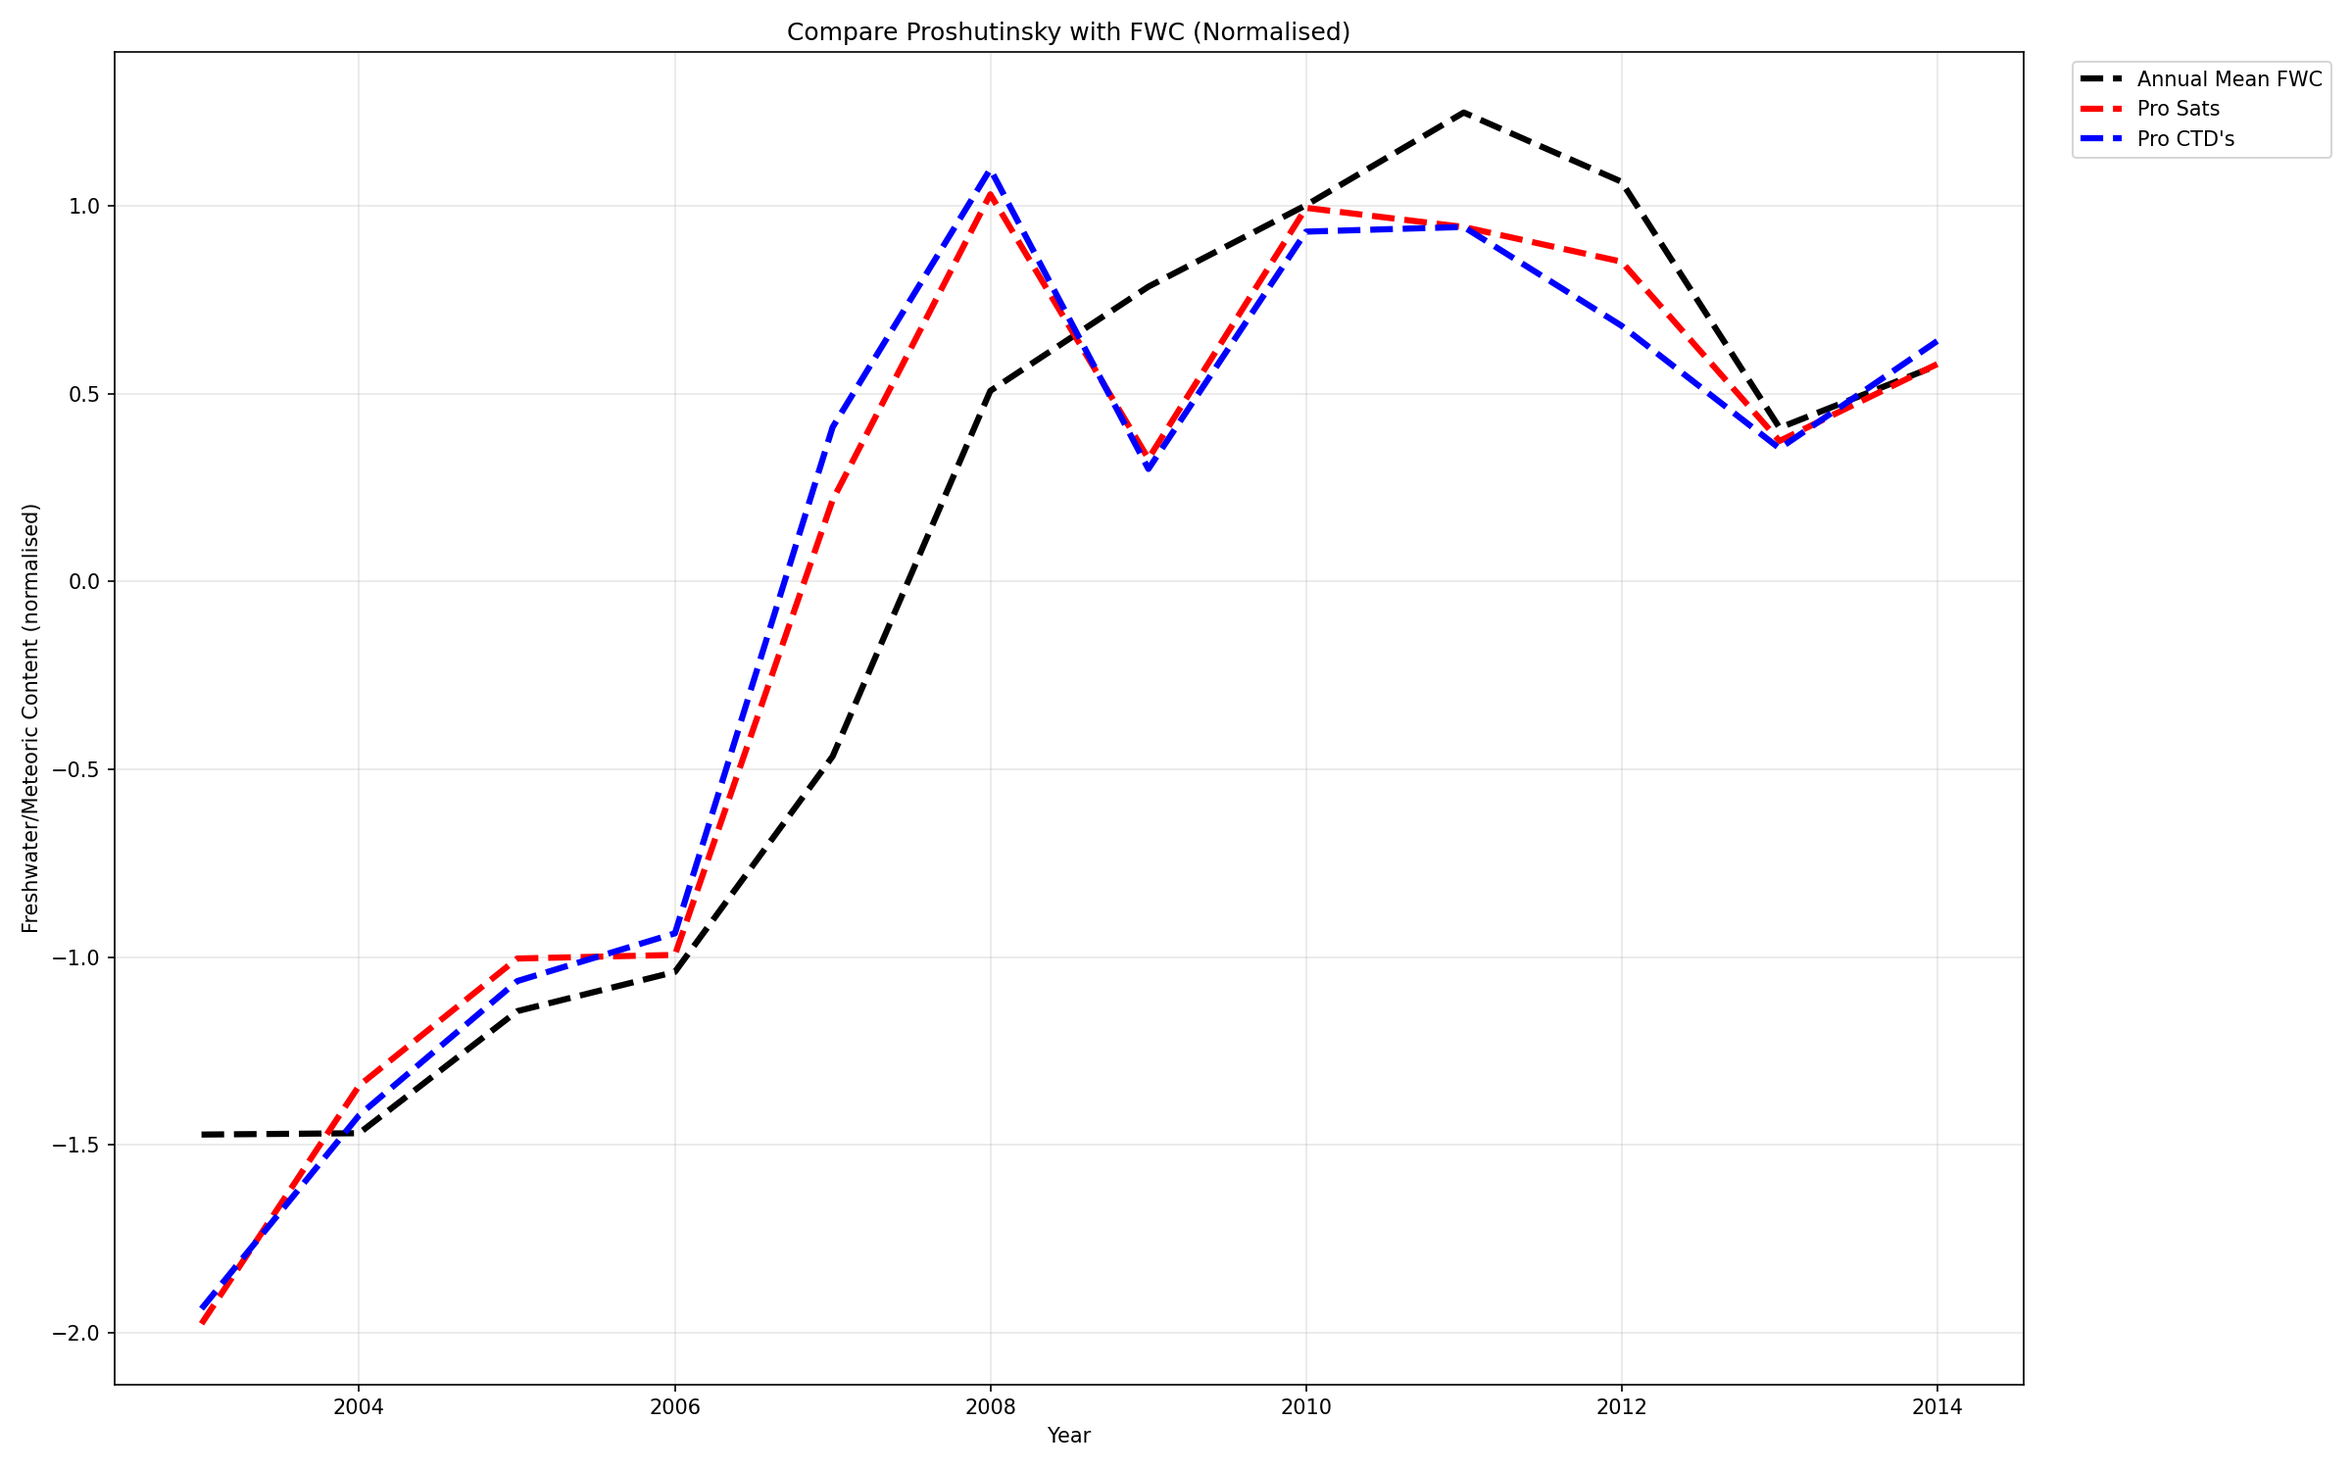
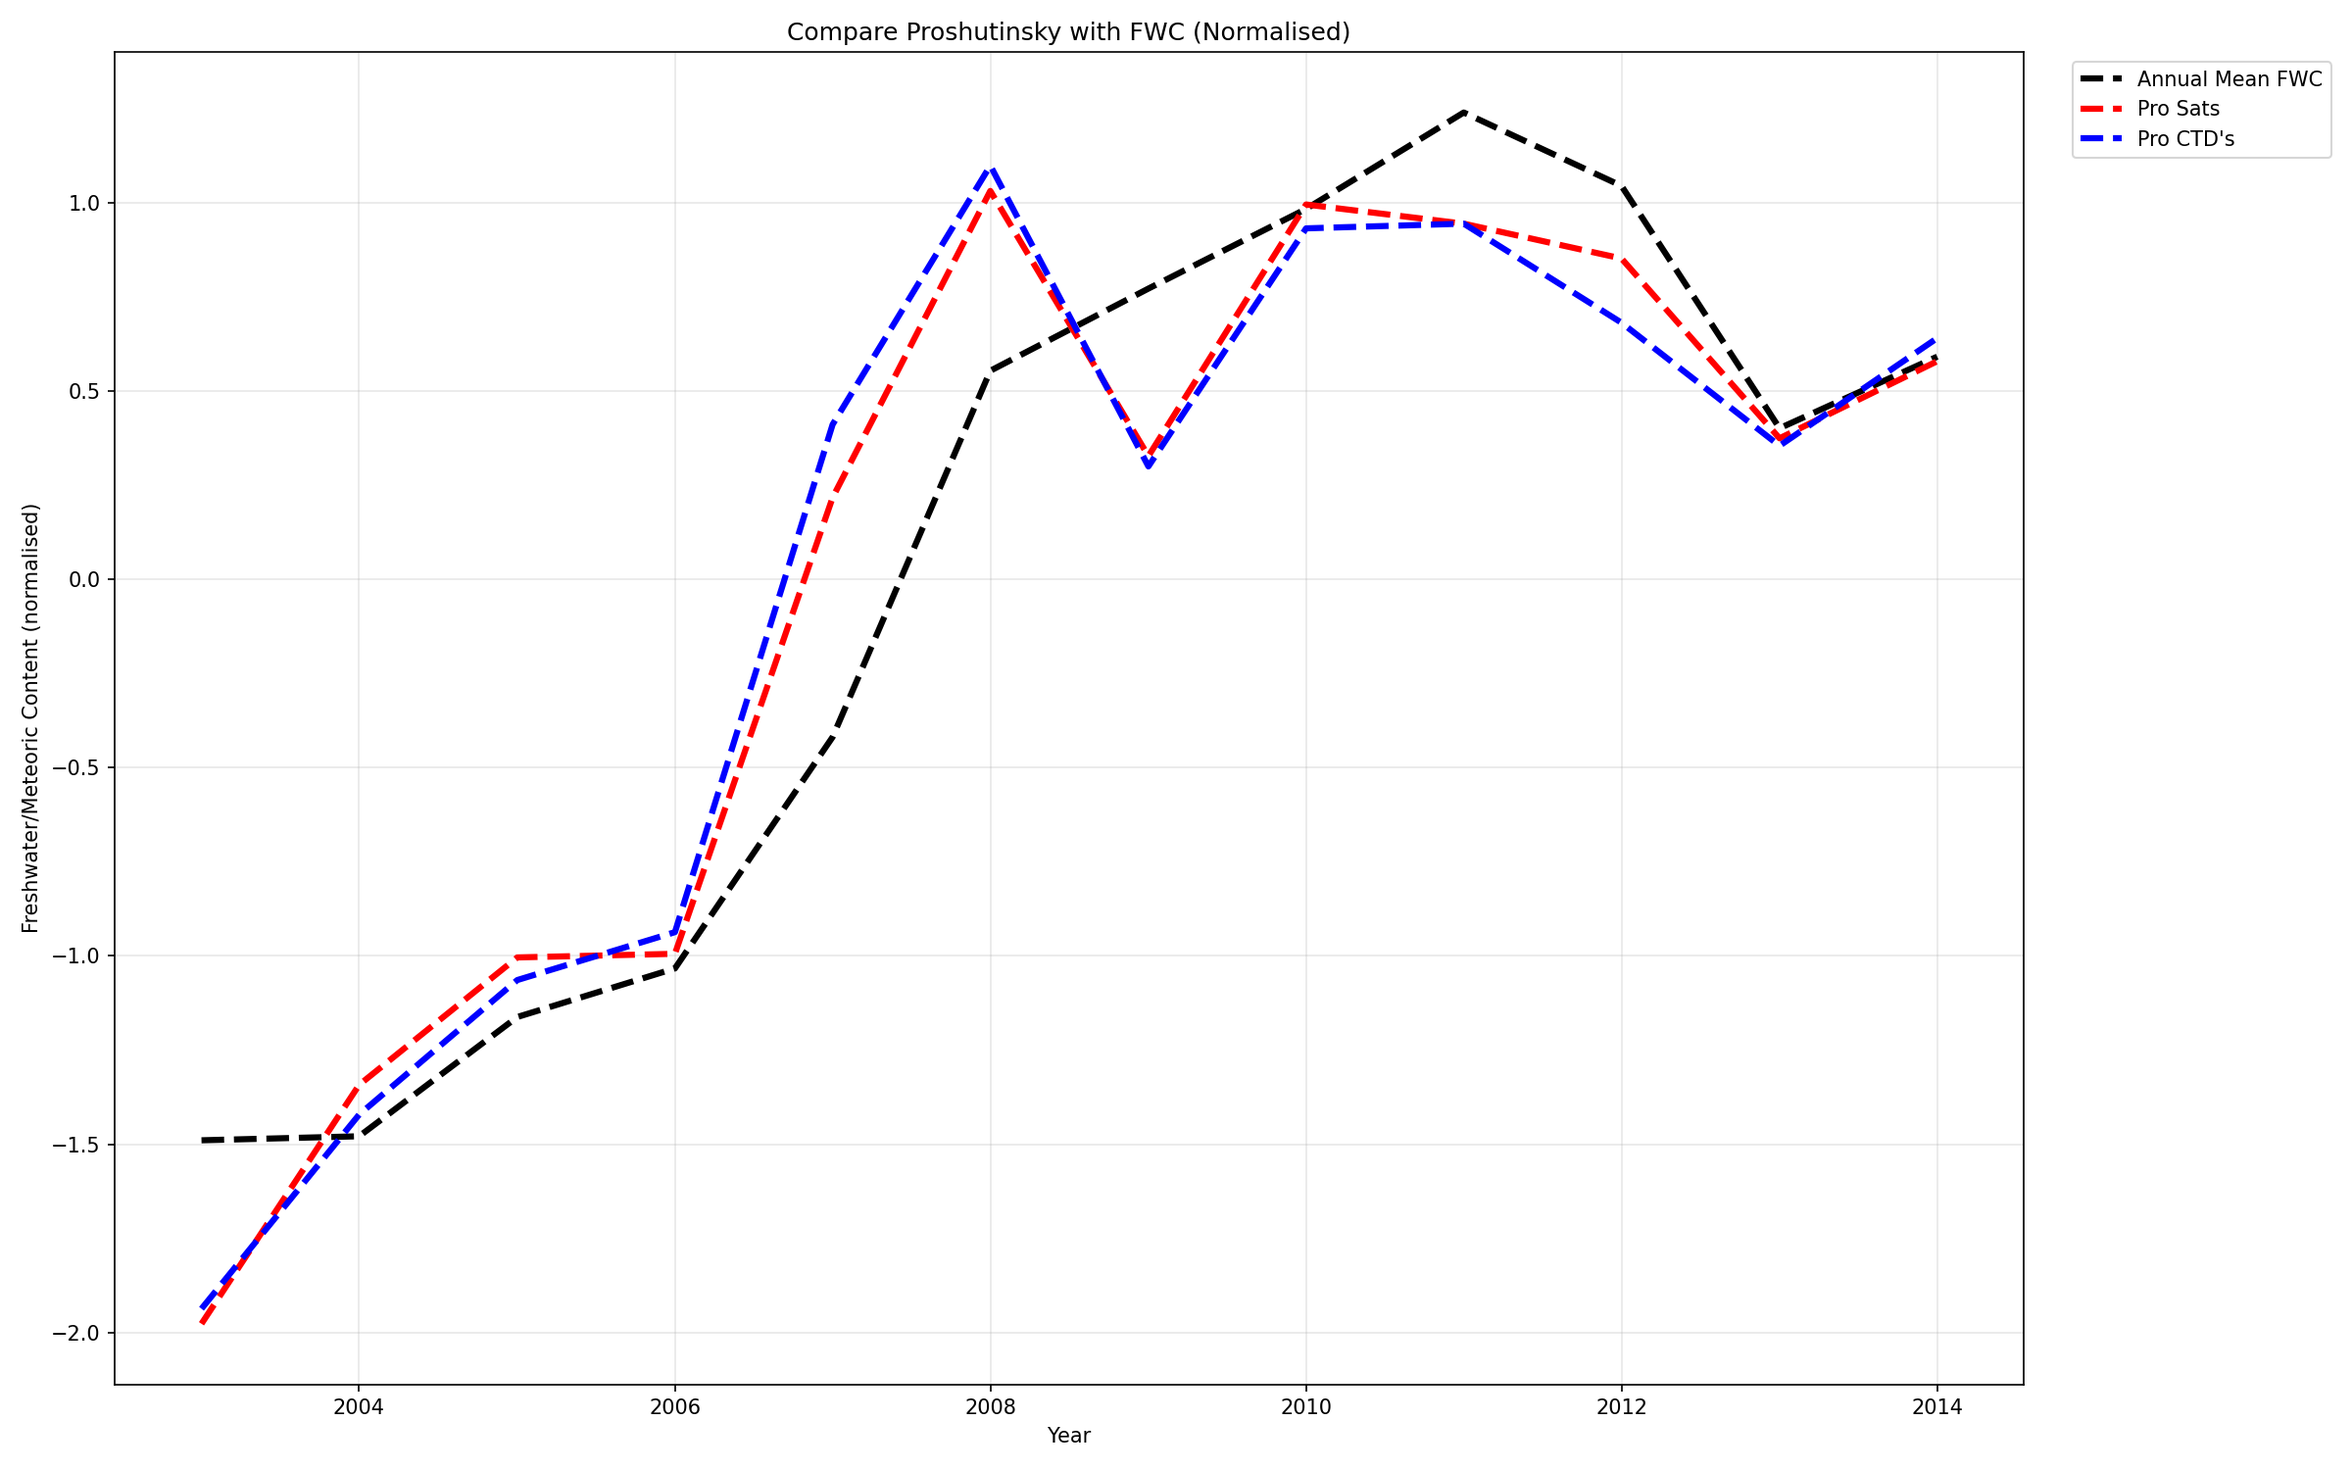
added <300 water column filter to match proshutinsky 2019 better

diff --git a/PINN2/mwc.py b/PINN2/mwc.py
@@ -1,22 +1,22 @@
-import numpy as np
-import xarray as xr
 import cartopy.crs as ccrs
 import cartopy.feature as cfeature
 import matplotlib
-matplotlib.use("Agg")
-import matplotlib.pyplot as plt
-import cmocean
-import pandas as pd
+import numpy as np
+import xarray as xr
 
+matplotlib.use("Agg")
+import cmocean
+import matplotlib.pyplot as plt
+import pandas as pd
 
 start_year = 1991
 end_year = 2025
 depth_inter = 350
-    # Beaufort Gyre,buffer zone,  Pan Arctic
-lat_n = 80.5 #90 #90 
-lat_s = 70.5 #75 #50
-lon_e = -130 #-10 #180
-lon_w = -170 #-130 #-180
+# Beaufort Gyre,buffer zone,  Pan Arctic
+lat_n = 80.5  # 90 #90
+lat_s = 70.5  # 75 #50
+lon_e = -130  # -10 #180
+lon_w = -170  # -130 #-180
 model_years = [year for year in range(start_year, end_year + 1)]
 # model_month = 10
 mean_mwc = []
@@ -24,42 +24,91 @@ mean_mwc_km3 = []
 mean_siwc = []
 mean_siwc_km3 = []
 months = []
-ds_st = xr.open_dataset(f"/work/scratch-pw5/thopri/cmems_mod_arc_phy_my_topaz4_P1M_thetao-so_180.00W-179.88E_50.00N-90.00N_0.00-4000.00m_1991-01-01-2026-01-01.nc")
+ds_st = xr.open_dataset(
+    f"/work/scratch-pw5/thopri/cmems_mod_arc_phy_my_topaz4_P1M_thetao-so_180.00W-179.88E_50.00N-90.00N_0.00-4000.00m_1991-01-01-2026-01-01.nc"
+)
 
 # depth coordinate
 depth = ds_st.depth
 # depth levels in meters
-depth_levels = np.array([
-            0,2, 4, 6, 10, 15, 20, 25, 30, 40, 50, 60, 70, 80, 90, 100,
-            125, 150, 175, 200, 250, 300, 350, 400, 450, 500, 600, 700,
-            800, 900, 1000, 1200, 1400, 1600, 1800, 2000, 2500, 3000, 3500, 4000
-        ])
+depth_levels = np.array(
+    [
+        0,
+        2,
+        4,
+        6,
+        10,
+        15,
+        20,
+        25,
+        30,
+        40,
+        50,
+        60,
+        70,
+        80,
+        90,
+        100,
+        125,
+        150,
+        175,
+        200,
+        250,
+        300,
+        350,
+        400,
+        450,
+        500,
+        600,
+        700,
+        800,
+        900,
+        1000,
+        1200,
+        1400,
+        1600,
+        1800,
+        2000,
+        2500,
+        3000,
+        3500,
+        4000,
+    ]
+)
 for model_year in model_years:
     for i in range(12):
-        months.append(f"{model_year}/{i+1:02d}")
+        months.append(f"{model_year}/{i + 1:02d}")
 
-
-        ds_o = xr.open_dataset(f"/gws/ssde/j25a/nemo/vol4/thopri/PINN/infer_output/tracer_predicted_{model_year}_{i+1:02d}.nc")
-        d18O_obs = ds_o["tracer_pred"].sel(latitude=slice(lat_s,lat_n),longitude=slice(lon_w,lon_e))
-        S_obs    = ds_st["so"].sel(latitude=slice(lat_s,lat_n),longitude=slice(lon_w,lon_e),
-                              time=(ds_st.time.dt.year == model_year) & 
-                                      (ds_st.time.dt.month == i+1)).squeeze("time")
-
-
+        ds_o = xr.open_dataset(
+            f"/gws/ssde/j25a/nemo/vol4/thopri/PINN/infer_output/tracer_predicted_{model_year}_{i + 1:02d}.nc"
+        )
+        d18O_obs = ds_o["tracer_pred"].sel(
+            latitude=slice(lat_s, lat_n), longitude=slice(lon_w, lon_e)
+        )
+        S_obs = (
+            ds_st["so"]
+            .sel(
+                latitude=slice(lat_s, lat_n),
+                longitude=slice(lon_w, lon_e),
+                time=(ds_st.time.dt.year == model_year)
+                & (ds_st.time.dt.month == i + 1),
+            )
+            .squeeze("time")
+        )
 
         # ============================================================
         # ENDMEMBERS https://pmc.ncbi.nlm.nih.gov/articles/PMC5852023
         # ============================================================
 
         # End-member values
-        d18O_pacific  = -1.1   # upper ocean (Beaufort Gyre halocline)
-        d18O_atlantic =  0.3   # Atlantic Water below ~200m
-        
+        d18O_pacific = -1.1  # upper ocean (Beaufort Gyre halocline)
+        d18O_atlantic = 0.3  # Atlantic Water below ~200m
+
         def d18O_ocean_endmember(depth, z_transition=200, width=50):
             """
             Smooth depth-varying ocean d18O end-member.
             Transitions from Pacific to Atlantic water around z_transition.
-            
+
             Parameters
             ----------
             depth        : float or array, depth in metres (positive downward)
@@ -69,21 +118,22 @@ for model_year in model_years:
             """
             # Sigmoid: 0 at surface (Pacific), 1 at depth (Atlantic)
             w = 1 / (1 + np.exp(-(depth - z_transition) / width))
-            
+
             return d18O_pacific * (1 - w) + d18O_atlantic * w
 
-        def d18O_seaice_endmember(depth, z_transition=50, width=15,
-                                   d18O_shallow=2.0, d18O_deep=0.3):
+        def d18O_seaice_endmember(
+            depth, z_transition=50, width=15, d18O_shallow=-2.0, d18O_deep=d18O_atlantic
+        ):
             """
             Smooth depth-varying sea ice melt d18O end-member.
             Sea ice melt influence is strongest near the surface and diminishes
             with depth as it mixes with ambient water masses.
-        
+
             Sea ice is slightly enriched relative to its parent seawater due to
             fractionation during freezing (~+2‰), but the melt water end-member
             itself is typically close to local surface seawater or slightly
             depleted depending on the ice age and source.
-        
+
             Parameters
             ----------
             depth       : float or array, depth in metres (positive downward)
@@ -99,16 +149,16 @@ for model_year in model_years:
             w = 1 / (1 + np.exp(-(depth - z_transition) / width))
             return d18O_shallow + w * (d18O_deep - d18O_shallow)
 
-        
-        def d18O_meteoric_endmember(depth, z_transition=200, width=50,
-                                     d18O_shallow=-20.0, d18O_deep=-5.0):
+        def d18O_meteoric_endmember(
+            depth, z_transition=200, width=50, d18O_shallow=-20.0, d18O_deep=-5.0
+        ):
             """
             Smooth depth-varying meteoric water d18O end-member.
             Meteoric water (rivers, precipitation, ice sheet runoff) is strongly
             depleted in 18O and is overwhelmingly a surface/near-surface signal.
             Its isotopic influence dilutes rapidly below the halocline as it mixes
             into ambient ocean water.
-        
+
             Parameters
             ----------
             depth       : float or array, depth in metres (positive downward)
@@ -124,27 +174,29 @@ for model_year in model_years:
             # Sigmoid: 0 at surface (meteoric-dominated), 1 at depth (diluted)
             w = 1 / (1 + np.exp(-(depth - z_transition) / width))
             return d18O_shallow + w * (d18O_deep - d18O_shallow)
-        
+
         # salinity endmembers
-        S_ocean = 34.8 
+        S_ocean = 34.8
         S_meteoric = 0.0
         S_ice = 4.0
-        
+
         # d180 endmembers
         d18O_ice = d18O_seaice_endmember(depth=depth)
-        d18O_meteoric = -20
+        d18O_meteoric = (
+            -20.0
+        )  # using depth varying endmember results in very high meteoric fractions
         d18O_ocean = d18O_ocean_endmember(depth=depth)
 
         # ============================================================
         # SOLVE 3-ENDMEMBER MIXING SYSTEM
         # ============================================================
-        
+
         # Unknowns:
         #
         # fm = meteoric fraction
         # fi = sea ice melt fraction
         # fo = ocean fraction
-        
+
         #
         # Equations:
         #
@@ -157,7 +209,7 @@ for model_year in model_years:
         # Since meteoric salinity = 0:
         #
         # Sm = 0
-        
+
         # Rearranged linear system:
         #
         # [1  1 ] [fm] = [1 - fo]
@@ -168,64 +220,93 @@ for model_year in model_years:
         # Eliminate fo:
         #
         # fo = 1 - fm - fi
-        
+
         #
         # Then solve 2x2 system
-        
+
         A11 = S_meteoric - S_ocean
         A12 = S_ice - S_ocean
-        
+
         A21 = d18O_meteoric - d18O_ocean
         A22 = d18O_ice - d18O_ocean
-        
+
         B1 = S_obs - S_ocean
         B2 = d18O_obs - d18O_ocean
-        
+
         # Determinant
         det = A11 * A22 - A12 * A21
-        
+
         # Solve fractions
         fm = (B1 * A22 - B2 * A12) / det
-        
+
         fi = (A11 * B2 - A21 * B1) / det
-        
+
         fo = 1.0 - fm - fi
-    
+
+        # ==========================================================================
+        # Data masking: Data below depth_inter and water columns shallower than 300m
+        # ==========================================================================
+
         mask = depth_levels <= depth_inter
-        depth_300 = depth_levels[mask]              # depths 0–300m only
-        f_mw_300  = fm[mask, :, :]        # slice depth axis of the 3D array
-        f_siw_300 = fi[mask,:,:]
+        depth_300 = depth_levels[mask]  # depths 0–300m only
+        f_mw_300 = fm[mask, :, :]  # slice depth axis of the 3D array
+
+        f_siw_300 = fi[mask, :, :]
+
+        # find the deepest valid depth at each (lat, lon) point
+        # fm is (depth, lat, lon) — NaN where no ocean data exists
+        valid      = np.isfinite(fm)                        # True where data exists
+        # broadcast depth_levels (depth,) across lat/lon, then mask invalid cells
+        depth_3d   = np.where(valid, depth_levels[:, None, None], np.nan)
+        bottom_depth = np.nanmax(depth_3d, axis=0)          # shape: (lat, lon)
+        
+        # Step 3: build 2D mask — True where seafloor >= 300m
+        deep_enough = bottom_depth >= 300                   # shape: (lat, lon)
+        
+        # Step 4: apply to the already depth-sliced arrays
+        # expand to (depth, lat, lon) to broadcast correctly
+        f_mw_300  = np.where(deep_enough[None, :, :], f_mw_300,  np.nan)
+        f_siw_300 = np.where(deep_enough[None, :, :], f_siw_300, np.nan)
+        
         # Fill NaNs with 0 so shallow columns still integrate over valid levels
-        f_mw_300  = np.nan_to_num(f_mw_300, nan=0.0)
-        f_siw_300  = np.nan_to_num(f_siw_300, nan=0.0)
+        f_mw_300 = np.nan_to_num(f_mw_300, nan=0.0)
+        f_siw_300 = np.nan_to_num(f_siw_300, nan=0.0)
+
+
+        # ============================================================
+        # Intergrate to calculate water content
+        # ============================================================
+        
         MWC = np.trapezoid(f_mw_300, depth_300, axis=0)
-        SIWC = np.trapezoid(f_siw_300,depth_300, axis=0)
+        SIWC = np.trapezoid(f_siw_300, depth_300, axis=0)
 
         # Mask where ALL depth levels are NaN = true land/no-data
         all_nan_fm = np.all(np.isnan(fm[mask, :, :]), axis=0)
         MWC[all_nan_fm] = np.nan
         all_nan_fi = np.all(np.isnan(fi[mask, :, :]), axis=0)
         SIWC[all_nan_fi] = np.nan
+
+        
         # ── Summary statistics ────────────────────────────────────────────────────
-        cell_area_m2  = 12500 * 12500 # 12.5 km × 12.5 km in m²
+        cell_area_m2 = 12500 * 12500  # 12.5 km × 12.5 km in m²
         total_MWC_km3 = np.nansum(MWC * cell_area_m2) / 1e9
         mean_mwc.append(np.nanmean(MWC))
         print(f"Mean MWC:  {np.nanmean(MWC):.2f} m")
         print(f"Total MWC: {total_MWC_km3:.1f} km³")
         mean_mwc_km3.append(total_MWC_km3)
-        
+
         total_SIWC_km3 = np.nansum(SIWC * cell_area_m2) / 1e9
         mean_siwc.append(np.nanmean(SIWC))
         print(f"Mean SIWC:  {np.nanmean(SIWC):.2f} m")
         print(f"Total SIWC: {total_SIWC_km3:.1f} km³")
         mean_siwc_km3.append(total_SIWC_km3)
-        
+
         # # ── Plot ──────────────────────────────────────────────────────────────────
         # lats     = ds_o['latitude']
         # lons     = ds_o['longitude']
         # proj     = ccrs.NorthPolarStereo()
         # data_crs = ccrs.PlateCarree()
-        
+
         # fig = plt.figure(figsize=(28, 12))
         # ax  = fig.add_subplot(1, 1, 1, projection=proj)
         # ax.set_extent([-180, 180, 50, 90], crs=data_crs)
@@ -235,16 +316,16 @@ for model_year in model_years:
 
         # lats_sub = lats[(lats >= lat_s) & (lats <= lat_n)]
         # lons_sub = lons[(lons >= lon_w) & (lons <= lon_e)]
-        
+
         # pcm1 = ax.pcolormesh(
         #     lons_sub, lats_sub, MWC,
         #     transform=data_crs,
-        #     cmap=cmocean.cm.haline_r, 
+        #     cmap=cmocean.cm.haline_r,
         #     shading="auto",
         #     vmin=0,
         #     vmax=20,
         # )
-        
+
         # ax.set_title(f"Meteoric Water Content (top 300 m) — {model_year}-{i+1:02d}")
         # plt.colorbar(pcm1, ax=ax, orientation="horizontal", pad=0.05, shrink=0.5, fraction=0.02, label="MWC (m)")
         # plt.tight_layout()
@@ -256,11 +337,9 @@ for model_year in model_years:
 months = pd.to_datetime(months)
 
 # Create DataFrame
-df = pd.DataFrame({
-    "date": months,
-    "mwc": mean_mwc_km3,
-    "siwc": mean_siwc_km3
-})
-df.to_parquet(f'infer_output/MWC/mwc_siwc_{start_year}_{end_year}_{lat_n}_{lat_s}_{lon_e}_{lon_w}.parquet')
+df = pd.DataFrame({"date": months, "mwc": mean_mwc_km3, "siwc": mean_siwc_km3})
+df.to_parquet(
+    f"infer_output/MWC/mwc_siwc_{start_year}_{end_year}_{lat_n}_{lat_s}_{lon_e}_{lon_w}.parquet"
+)
 
 print("the end!")
